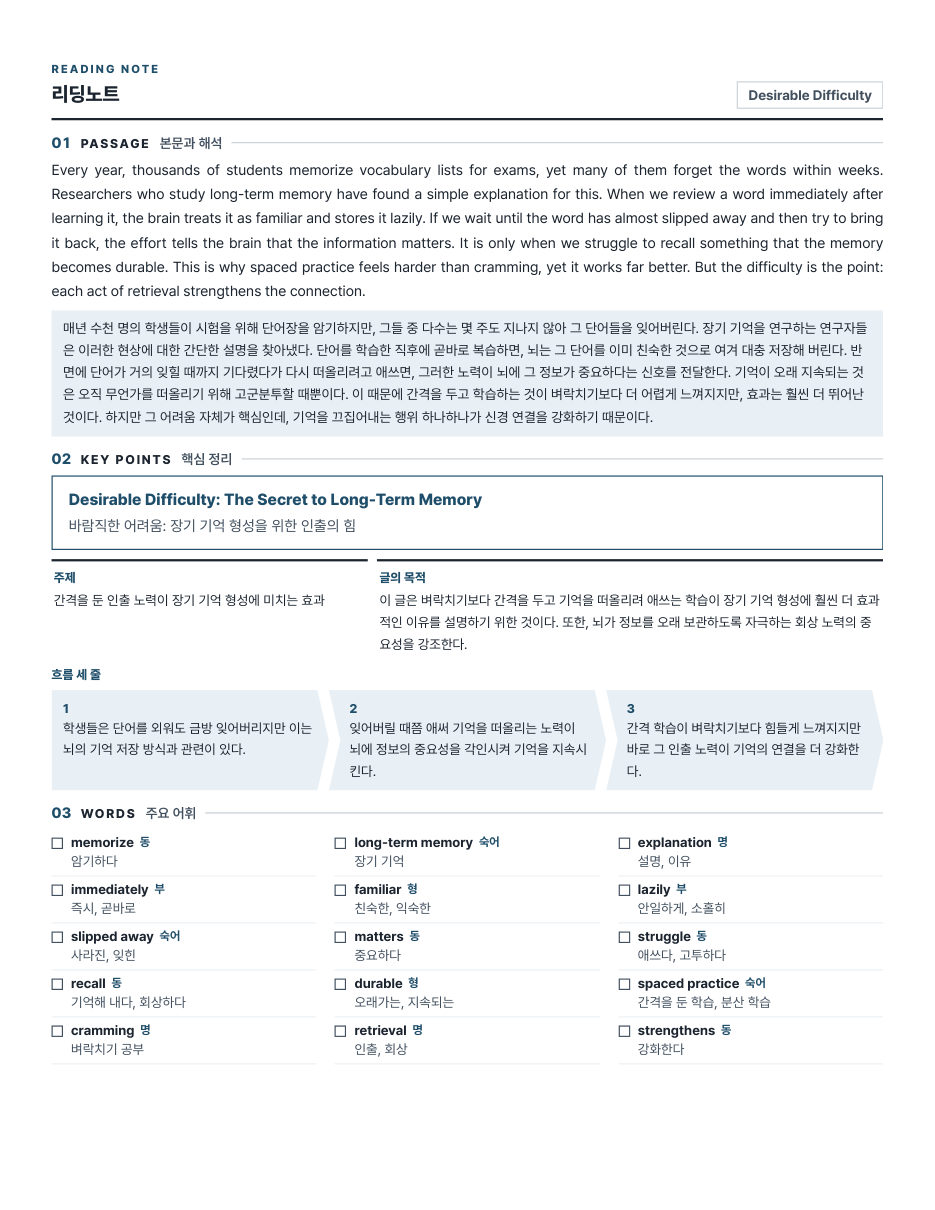
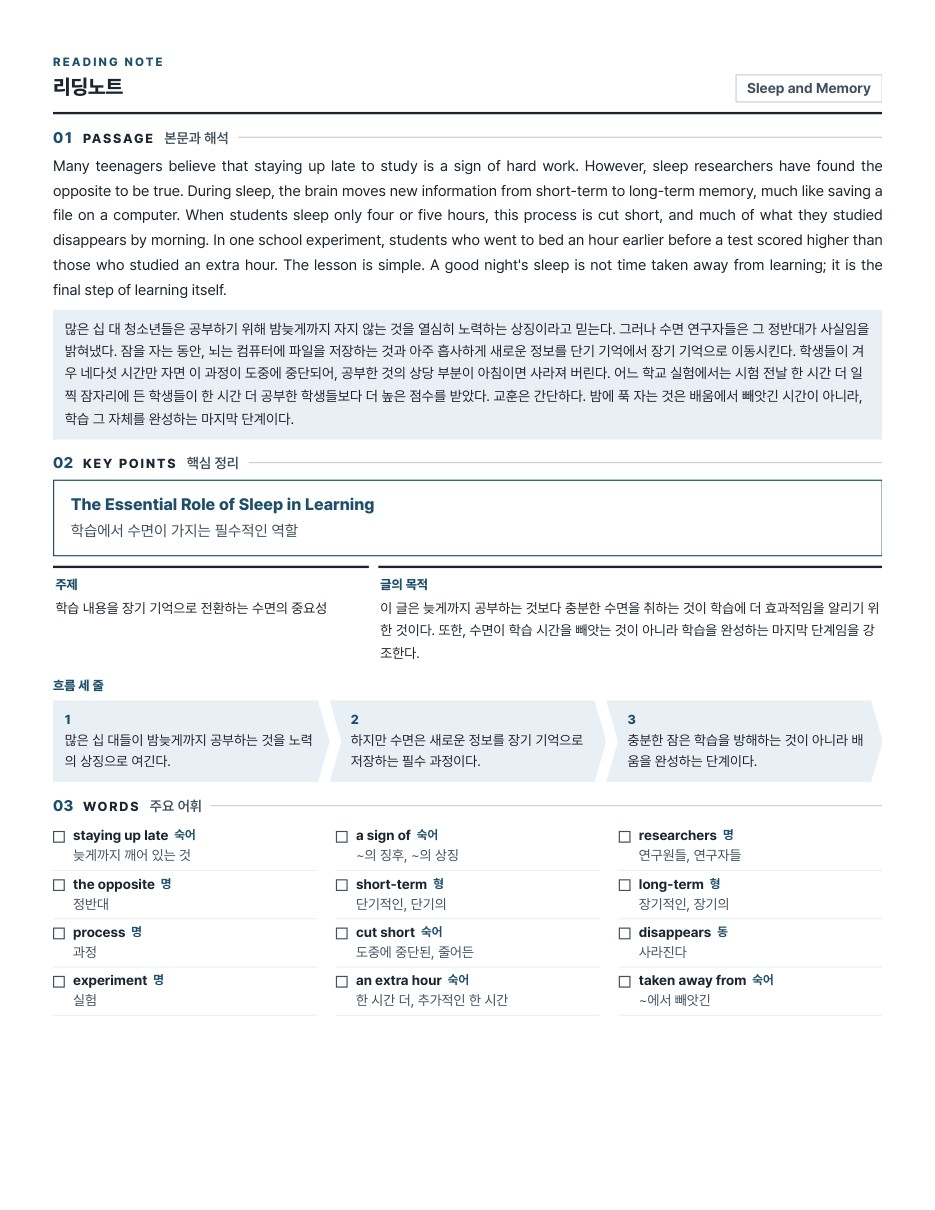
요약분석·리딩노트의 4컷 그림 예시를 탭마다 다른 지문과 그림 느낌으로 바꾼다(사용자 — 탭별 그림 스타일 차이가 보이게). 상세분석은 Desirable Difficulty(인포그래픽·웹툰·일러스트) 그대로, 요약분석은 새 지문(꿀벌) 일러스트 4컷(howto-brief-4.png, 같은 지문 웹툰·일러스트 두 쪽이던 brief-4·5 중 5는 삭제), 리딩노트는 새 지문(수면과 기억) 웹툰 4컷이 든 두 쪽(howto-decode-1·2.jpg)이다. 새 지문은 직접 쓴 글이고 call_gemini_decode_pic·call_g

Changed region(s): [[0.031, 0.0306, 0.9615, 0.5504], [0.062, 0.5504, 0.9305, 0.8868]]

diff --git a/public/app.js b/public/app.js
@@ -14616,16 +14616,15 @@ const HOWTO_SAMPLE = {
       "Ⅳ. 한눈에 보는 요약 — 웹툰 4컷",
       "Ⅳ. 한눈에 보는 요약 — 일러스트 4컷",
     ]),
-  // 상세분석과 같은 지문으로 요약분석 결과 화면을 찍은 그림(howto-brief-N.png) (3쪽은 상세분석 5쪽과 같은 그림 — 요약 이미지 한글요약·영어요약,
-  // 4·5쪽은 상세분석 6·7쪽과 같은 4컷 그림). 상세분석과 똑같이 쪽 카드로 보여 준다
+  // 상세분석과 같은 지문으로 요약분석 결과 화면을 찍은 그림(howto-brief-N.png) (3쪽은 상세분석 5쪽과 같은 그림 — 요약 이미지 한글요약·영어요약).
+  // 4쪽은 **다른 지문**(The Hidden Work of Bees)으로 그린 일러스트 4컷 — 탭마다 지문과 그림 느낌이 달라 보이게 한다(2026-11-03 사용자)
   brief: () =>
     samplePagesHtml("brief", [
       "문장별 해석 — 1~3번 문장",
       "Ⅱ. 주제 & 흐름 요약",
       "Ⅳ. 한눈에 보는 요약 (한글요약 · 영어요약)",
-      "Ⅳ. 한눈에 보는 요약 — 웹툰 4컷",
-      "Ⅳ. 한눈에 보는 요약 — 일러스트 4컷",
-    ], "", "png"),
+      "Ⅳ. 한눈에 보는 요약 — 일러스트 4컷 (다른 지문 예시)",
+    ], "요약 이미지는 지문에 따라 구성과 그림 느낌이 매번 달라집니다 — 위 두 그림은 같은 지문이고, 마지막 4컷은 다른 지문으로 그린 예시입니다.", "png"),
   mcq: () =>
     samplePagesHtml("mcq", [
       "1~2번 — 주제 · 제목",

diff --git a/public/decode.js b/public/decode.js
@@ -550,13 +550,13 @@ TAB_SAVE.decode = {
 const dcSavedSrc = new Map();
 
 /* 결과물 예시 — 탭 아래 '📄 결과물 예시'와 만드는 법 창이 함께 쓴다(app.js HOWTO_SAMPLE·TAB_SAMPLE_RESULT).
-   그림(howto-decode-1·2.jpg)은 다른 탭 예시와 같은 지문(Desirable Difficulty)으로 실제로 만든 리딩노트(4컷 웹툰 포함)를
-   헤드리스 크롬으로 인쇄한 쪽이다(2026-11-03). 리딩노트 모양을 눈에 띄게 바꾸면 다시 찍을 것 */
+   그림(howto-decode-1·2.jpg)은 **다른 탭 예시와 다른 지문**(Sleep and Memory — 상세분석·요약분석 예시와 지문도 그림 느낌도 달라 보이게,
+   2026-11-03 사용자)으로 실제로 만든 리딩노트(4컷 웹툰 포함)를 헤드리스 크롬으로 인쇄한 쪽이다. 리딩노트 모양을 눈에 띄게 바꾸면 다시 찍을 것 */
 if (typeof HOWTO_SAMPLE !== "undefined") {
   HOWTO_SAMPLE.decode = () => samplePagesHtml("decode", [
     "1쪽 — 본문과 해석 · 핵심 정리 · 주요 어휘",
     "2쪽 — 끊어 읽기 해석 · 4컷 그림(웹툰)",
-  ]);
+  ], "4컷 그림은 일러스트·웹툰 중에서 고릅니다 — 이 예시는 웹툰으로 그린 것이고, 지문마다 장면이 새로 정해집니다.");
   TAB_SAMPLE_RESULT.decode = "dcResult";
 }
 

diff --git a/CLAUDE.md b/CLAUDE.md
@@ -416,9 +416,9 @@ order=순서 배열·자동 / wbwrite=영작 연습·다르면 확인 대기 / p
 쪽 그림**(`public/howto-<탭>-N.jpg`, `samplePagesHtml`)이라, 인쇄물 모양이 눈에 띄게 바뀌면
 저절로 따라오지 않습니다 — PDF를 새로 뽑아 그림을 갈아 끼우세요(원본은 저장소 밖 `홍보/`의
 2026-09-20 홍보용 PDF 네 개). 단, **상세분석 4번째 그림(`howto-analyze-4.jpg`, 배경지식 칸)은 2026-10-22에 같은 지문으로 `buildBackgroundHtml`과 같은 마크업을 손으로 적어 `style.css`로 그린 것을 헤드리스 크롬으로 찍은 그림**이다 — 배경지식 CSS를 고치면 다시 찍을 것. 단어장·동형 모의고사 예시는 코드가 그 자리에서 그려서 알아서 따라갑니다.
-**요약 이미지 4컷 예시(`howto-analyze-6·7.jpg` = `howto-brief-4·5.png`, 웹툰·일러스트, 2026-11-03)**는 같은 지문으로 실제 그린 4컷을 앱 CSS(`dc-cuts`)로 그린 'Ⅳ. 한눈에 보는 요약'을 헤드리스 크롬으로 찍은 그림이다 — 4컷 CSS를 바꾸면 다시 찍을 것. **요약분석 예시(`howto-brief-1/2.png`)는 `SAMPLE_BRIEF`를 그린 화면을 헤드리스 크롬으로 찍은 그림**이라 따라오지 않으니, `SAMPLE_BRIEF`나 요약분석 CSS를 고치면 다시 찍으세요.
+**요약 이미지 4컷 예시**는 탭마다 지문·그림 느낌을 달리했다(2026-11-03 사용자 — 탭별 그림 스타일 차이가 보이게): 상세분석 `howto-analyze-6·7.jpg`(*Desirable Difficulty*, 웹툰·일러스트) / 요약분석 `howto-brief-4.png`(*The Hidden Work of Bees*, 일러스트) / 리딩노트 `howto-decode-1·2.jpg`(*Sleep and Memory*, 웹툰). 새 지문 둘은 직접 쓴 글이고 `call_gemini_decode_pic`·`call_gemini_decode`를 직접 불러(요금 차감 없이 GEMINI_API_KEY 원가만) 그린 뒤, 앱 CSS(`dc-cuts`)·`dcSheetHtml`을 헤드리스 크롬으로 찍었다 — 4컷·리딩노트 CSS를 바꾸면 다시 찍을 것. **요약분석 예시(`howto-brief-1/2.png`)는 `SAMPLE_BRIEF`를 그린 화면을 헤드리스 크롬으로 찍은 그림**이라 따라오지 않으니, `SAMPLE_BRIEF`나 요약분석 CSS를 고치면 다시 찍으세요.
 객관식·주관식 예시(`howto-mcq-*`·`howto-saq-*`)는 2026-10-07에 같은 지문으로 `call_gemini_quiz`를 직접 불러(요금 차감 없이) 새로 만들고, 앱의 `buildQuizHtml`+인쇄 CSS를 헤드리스 크롬으로 찍은 그림이다. 제목은 "예시 객관식문제"·"예시 주관식".
-**모든 탭 예시는 같은 지문(*Desirable Difficulty*)을 씁니다** — 새 예시를 만들 때도 이 지문으로 맞추세요.
+**탭 예시는 대부분 같은 지문(*Desirable Difficulty*)을 씁니다** — 새 예시를 만들 때도 이 지문으로 맞추세요. 단 **요약 이미지·4컷 그림 예시는 예외**(위 문단 — 탭마다 지문과 그림 느낌이 달라야 차이가 보인다).
 같은 예시(`HOWTO_SAMPLE`)가 **각 탭의 실행 버튼 아래에도** 접이식 '📄 결과물 예시'로 보입니다(`ensureTabSample`, 탭을 처음 열 때 한 번 만들고 결과가 생기면 감춥니다) — 그림을 갈아 끼우면 두 곳이 함께 바뀝니다. 새 탭에 예시를 붙이려면 `HOWTO_SAMPLE`에 더하고 `TAB_SAMPLE_RESULT`에 그 탭의 결과 칸 id를 적으세요.
 
 **약관을 고치면 판 번호도 함께 올리세요.** `public/terms.html`의 시행일과 `server.py`의
